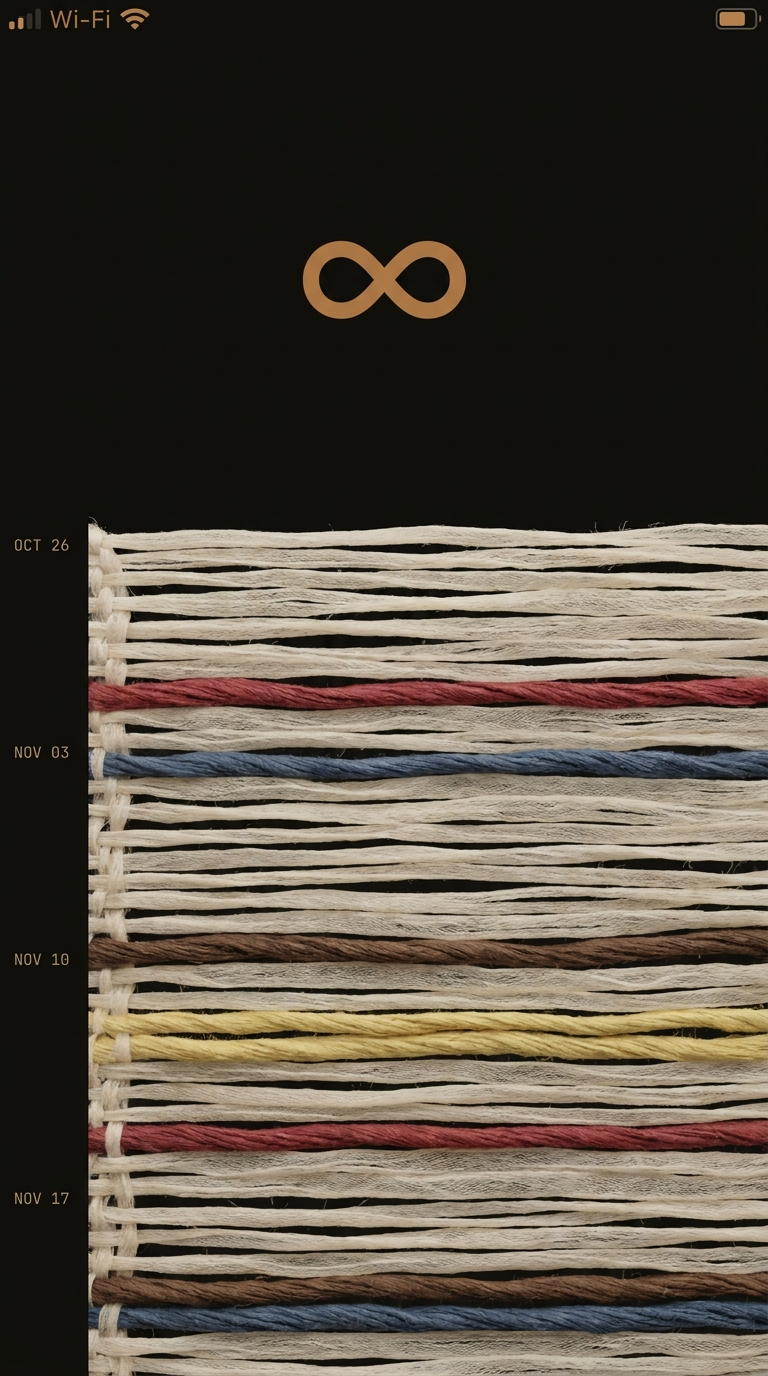
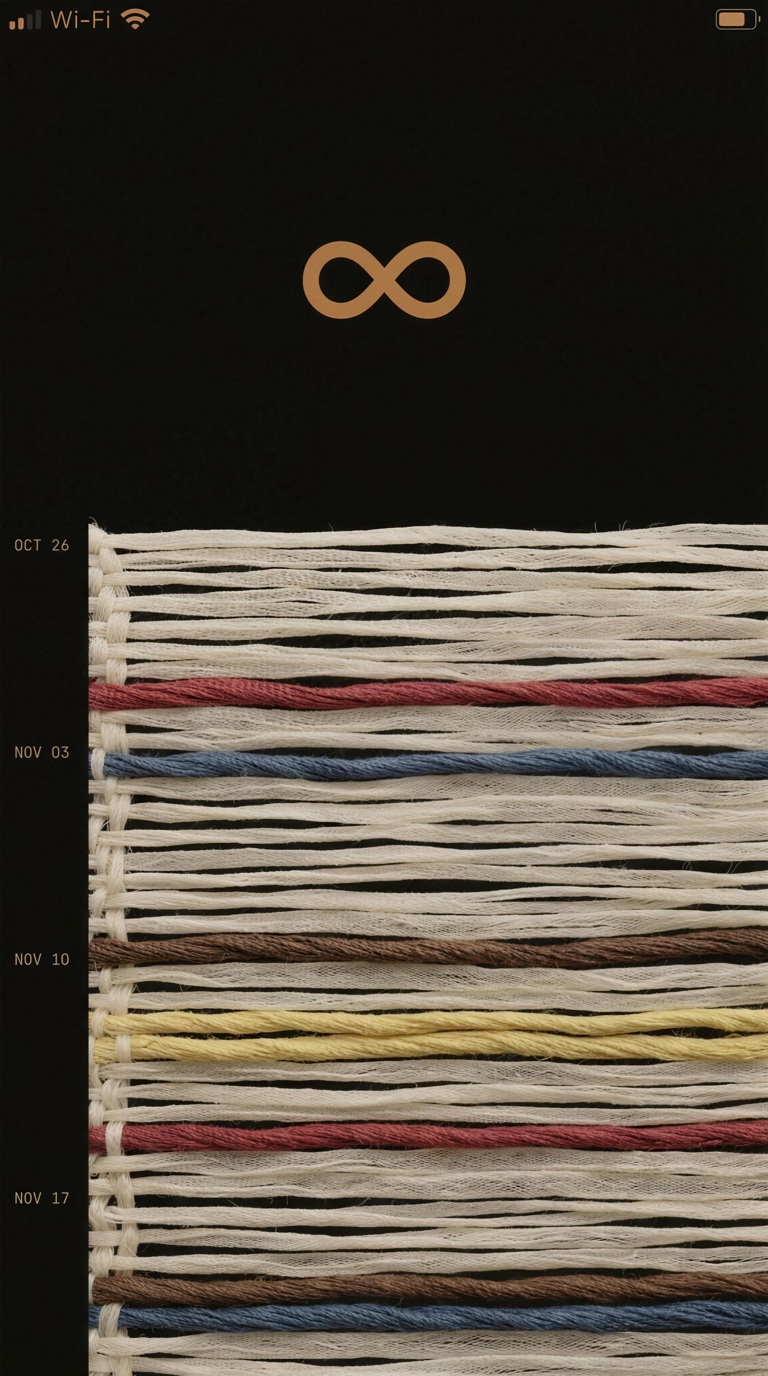
feat(marketing+pwa): wire the write→seal→read arc + richer install card
- Marketing.tsx: new "the arc" band — three editorial plates
  (write today / sealed for descendants / read what came before),
  headline type set inside each plate, scroll-revealed, on-constitution.
- manifest: add composer + bloodline screenshots to the install carousel.
- screenshots: re-derive wide/narrow from 4K masters (sharper at spec size).
- sw: bump cache v78 → v79 so PWAs adopt the new shell.

diff --git a/cloudflare/frontend/src/pages/Marketing.tsx b/cloudflare/frontend/src/pages/Marketing.tsx
@@ -50,6 +50,7 @@ export function Marketing() {
   const [vpW, setVpW] = useState(typeof window !== 'undefined' ? window.innerWidth : 1440);
   const [taglineIn, setTaglineIn] = useState(false);
   const pillars  = useReveal(0.08);
+  const arc      = useReveal(0.06);
   const permSect = useReveal(0.06);
   const bookSect = useReveal(0.08);
   const finalCta = useReveal(0.1);
@@ -249,6 +250,52 @@ export function Marketing() {
           </div>
         ))}
         <div style={{ borderTop: '1px solid rgba(244,236,216,0.10)' }} />
+      </section>
+
+      {/* ════════════════════════════════════════════════════════════
+          THE ARC — write → seal → read. Three editorial plates. The
+          headline type is set inside each plate (same serif/mono), so
+          no caption is repeated — the image IS the specimen.
+          ════════════════════════════════════════════════════════════ */}
+      <section
+        ref={arc.ref}
+        style={{
+          padding: 'clamp(72px, 10vh, 120px) clamp(24px, 6vw, 80px)',
+          borderTop: '1px solid rgba(244,236,216,0.07)',
+        }}
+      >
+        <div style={{
+          fontFamily: 'var(--mono)', fontSize: 9.5, letterSpacing: '0.32em',
+          textTransform: 'uppercase', color: 'rgba(244,236,216,0.26)',
+          marginBottom: 'clamp(40px, 6vh, 60px)',
+        }}>
+          the arc
+        </div>
+        <div style={{ display: 'flex', flexDirection: 'column', gap: 'clamp(28px, 5vh, 56px)' }}>
+          {([
+            ['/marketing/write.png',  'Write today — the story begins when you decide to.'],
+            ['/marketing/sealed.png', 'Sealed for descendants — locked until they are ready to read it.'],
+            ['/marketing/read.png',   'Read what came before — the voices that wrote before you.'],
+          ] as const).map(([src, alt], i) => (
+            <figure key={i} style={{
+              margin: 0,
+              opacity: arc.visible ? 1 : 0,
+              transform: arc.visible ? 'translateY(0)' : 'translateY(20px)',
+              transition: `opacity 720ms ${ease}, transform 720ms ${ease}`,
+              transitionDelay: `${i * 160}ms`,
+            }}>
+              <img
+                src={src}
+                alt={alt}
+                loading="lazy"
+                style={{
+                  width: '100%', height: 'auto', display: 'block',
+                  border: '1px solid rgba(244,236,216,0.07)',
+                }}
+              />
+            </figure>
+          ))}
+        </div>
       </section>
 
       {/* ════════════════════════════════════════════════════════════

diff --git a/cloudflare/frontend/public/sw.js b/cloudflare/frontend/public/sw.js
@@ -19,7 +19,7 @@
  * cache.addAll() reject on the redirected response and the whole install fails.
  * Precache `/offline` (the served URL) — never the redirecting alias.
  */
-const CACHE = 'heirloom-v78';
+const CACHE = 'heirloom-v79';
 const API_CACHE = 'heirloom-api-v1'; // preserved across shell bumps — offline read data
 const SHELL = '/index.html';
 const OFFLINE = '/offline';